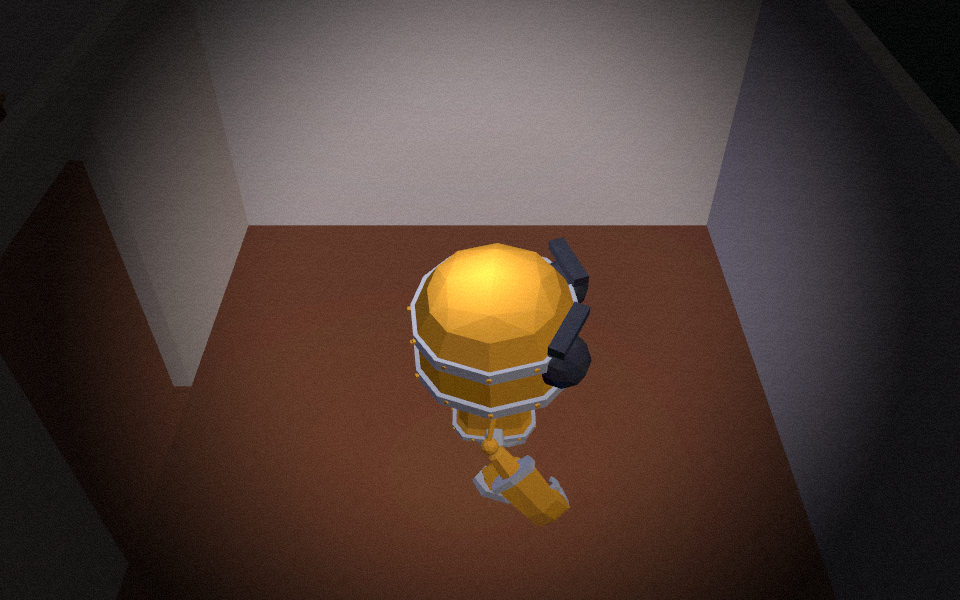
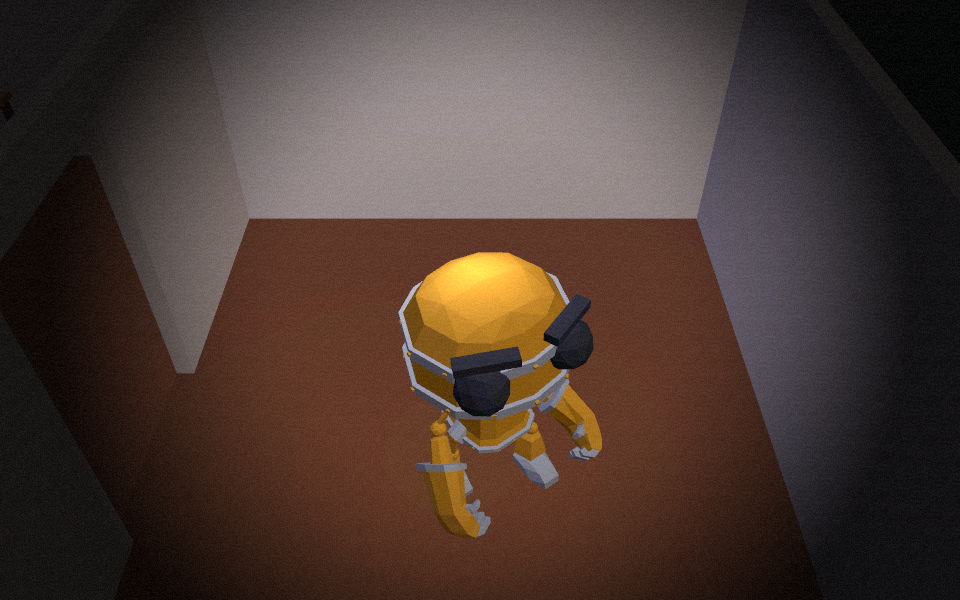
feat(audio): main.js에 실제 BGM/발소리 연결 + 램프 클릭 sfx + audio-check.mjs 강화
main.js: playBGM 대상 test.mp3 -> bgm-main.mp3, initFootsteps()를 오디오
게이트 콜백 안(BGM 재생 직후)에서 호출.

livingRoom.js: 램프 토글이 실제로 성립할 때만 sfx-click 재생하도록 연결.

footsteps.js: initFootsteps()가 이제 pool을 반환(playBGM이 sound를
반환하는 것과 같은 패턴) - 검증 스크립트가 재생 상태를 읽을 수 있게.
main.js가 window.__debug.footsteps로 노출.

audio-check.mjs: 기존엔 상태 출력만 하고 pass/fail 판정이 없었음 - OK/FAIL
어서션과 exit(1) 추가. 발소리 검사 3단계 신규: 정지 시 재생 안 됨 / W 이동
중 1.5초 내 최소 1회 재생 / 키를 떼면 다시 멈춤. 전부 통과.

test.mp3(4.1MB, 커밋된 적 없는 로컬 테스트 파일) 삭제.

회귀 확인: m4-rooms.mjs 13/13, character-check.mjs 4항목 전부 유지.

STATE.md/handoff-2026-08-15.md: M3(b)/M6 상태 갱신, 죽은 브랜치
(lane-c-look/lane-e-assets-audio) origin 삭제 + 로컬 추적 참조 prune 반영.

diff --git a/game/src/world/rooms/livingRoom.js b/game/src/world/rooms/livingRoom.js
@@ -2,6 +2,7 @@ import * as THREE from 'three';
 import { makeMesh } from '../../render/meshFactory.js';
 import { toonMat } from '../../render/materials.js';
 import { onFrame } from '../../core/loop.js';
+import { createSfxPool } from '../../audio/audio.js';
 
 /* ------------------------------------------------------------------ *
  *  거실 소품 전용 파일 (M4). 바닥·벽·문은 house.js(layout.js 데이터
@@ -121,6 +122,7 @@ export function createLivingRoom(scene, camera, renderer) {
   // 그걸 import하지 않는다 — world 모듈이 camera 모듈을 몰라야 하므로.
   const raycaster = new THREE.Raycaster();
   const pointer = new THREE.Vector2();
+  const clickSfx = createSfxPool('./assets/audio/sfx-click.mp3', 2, { volume: 0.8 });
   let lampOn = false;
   let punch = 0;
   let downX = 0;
@@ -153,6 +155,7 @@ export function createLivingRoom(scene, camera, renderer) {
       shadeMat.emissive.set(lampOn ? 0xffb35a : 0x000000);
       shadeMat.emissiveIntensity = lampOn ? 0.9 : 0;
       punch = 1;
+      clickSfx.play();
     }
   }
   renderer.domElement.addEventListener('pointerdown', onPointerDown);

diff --git a/game/main.js b/game/main.js
@@ -16,6 +16,7 @@ import { restyle, Restyle, logMaterials } from './src/assets/restyle.js';
 import { fitHeight } from './src/assets/normalize.js';
 import { initAudioGate } from './src/audio/gate.js';
 import { playBGM } from './src/audio/audio.js';
+import { initFootsteps } from './src/audio/footsteps.js';
 
 /* ------------------------------------------------------------------ *
  *  부트스트랩 전용 파일 (로드맵 §3 "main.js는 통합자 전용").
@@ -64,8 +65,9 @@ window.__debug = { player, camera, getColliders };
 // #loading 오버레이를 "시작하기" 버튼으로 바꾼다(index.html은 안 건드림, gate.js가 DOM 주입).
 // 클릭 시에만 AudioContext.resume() + BGM 재생이 허용된다.
 initAudioGate(loadingEl, () => {
-  const bgm = playBGM('./assets/audio/test.mp3', { volume: 0.4, loop: true });
+  const bgm = playBGM('./assets/audio/bgm-main.mp3', { volume: 0.4, loop: true });
   window.__debug.bgm = bgm;
+  window.__debug.footsteps = initFootsteps('./assets/audio/sfx-footstep.mp3', 0.38);
 });
 hintEl.classList.remove('hidden');
 setTimeout(() => hintEl.classList.add('hidden'), 6000);

diff --git a/game/src/audio/footsteps.js b/game/src/audio/footsteps.js
@@ -5,8 +5,9 @@ import { createSfxPool } from './audio.js';
 /**
  * 캐릭터 WASD 이동 축을 감지하여 발소리(SFX Pool)를 보행 주기(interval)에 맞춰 자동 재생하는 모듈
  * ⚠ main.js 등 외부 통합 시점에서 initFootsteps()를 호출하여 바인딩함
- * @param {string} url 
- * @param {number} interval 
+ * @param {string} url
+ * @param {number} interval
+ * @returns {{play: Function, pool: THREE.Audio[]}} 검증 스크립트가 재생 상태를 읽을 수 있도록 pool 반환 (playBGM이 sound를 반환하는 것과 같은 패턴)
  */
 export function initFootsteps(url = './assets/audio/sfx-footstep.mp3', interval = 0.38) {
   const pool = createSfxPool(url, 4, { volume: 0.5 });
@@ -25,4 +26,6 @@ export function initFootsteps(url = './assets/audio/sfx-footstep.mp3', interval 
       timer = 0;
     }
   }, Phase.SIM);
+
+  return pool;
 }

diff --git a/handoff-2026-08-15.md b/handoff-2026-08-15.md
@@ -26,18 +26,17 @@
 - **로컬 작업 경로**: `C:\Users\hcyang\claude\claude_project\260814_mini_games`
 - **기본 브랜치**: `main`
 - **게임 실행**: `game/index.html`을 정적 서버로 서빙(VS Code Live Server 등). ES 모듈이라 `file://` 직접 열기는 CORS로 안 됨.
-- **개발 도구**: `tools/render-check/`(헤드리스 Chrome 렌더 검증 — `shot.mjs`, `move-check.mjs`, `audio-check.mjs`, `zoom-check.mjs`, `m4-rooms.mjs`, `collider-count.mjs`), `tools/check-imports.mjs`(import 경로·대소문자 검증), `tools/layout-check.mjs`(레이아웃 데이터 순수 node 정적 검증 7항목)
+- **개발 도구**: `tools/render-check/`(헤드리스 Chrome 렌더 검증 — `shot.mjs`, `move-check.mjs`, `audio-check.mjs`, `zoom-check.mjs`, `m4-rooms.mjs`, `collider-count.mjs`, `room-tint-check.mjs`, `character-check.mjs`), `tools/check-imports.mjs`(import 경로·대소문자 검증), `tools/layout-check.mjs`(레이아웃 데이터 순수 node 정적 검증 7항목)
 
 ### 활성 브랜치
 
 | 브랜치 | 상태 | 내용 |
 |---|---|---|
-| `main` | 진행 중 | M4 집 구조(거실+방3 뼈대) 완료 후 merge. 다음 작업 대기 |
-| `gemini/lane-character` | **대기 중, 미착수** | 걷는 캐릭터(리깅+애니메이션) — 지시서: `docs/handoff/gemini-lane-character.md` |
-| `gemini/lane-audio-content` | **대기 중, 미착수** | BGM/SFX 실제 에셋 — 지시서: `docs/handoff/gemini-lane-audio-content.md` |
-| `gemini/lane-rooms` | **대기 중, 미착수** | 침실A·작업실·침실B 소품 드레싱 — 지시서: `docs/handoff/gemini-lane-rooms.md` (M4 완료 직후 신설) |
-| `gemini/lane-c-look` | merge 완료(죽은 브랜치) | 후처리/안개/바깥지형. 삭제해도 무방 |
-| `gemini/lane-e-assets-audio` | merge 완료(죽은 브랜치) | 에셋 파이프라인/오디오 시스템. 삭제해도 무방 |
+| `main` | 진행 중 | M4 집 구조 + 걷는 캐릭터 + BGM/SFX 전부 merge 완료. 다음은 `gemini/lane-rooms` |
+| `gemini/lane-character` | **merge 완료** (`6e68173`) | 걷는 캐릭터(리깅 로봇+idle/walk). 삭제 대상(아직 안 지움) |
+| `gemini/lane-audio-content` | **merge 완료** (`4015c9e`) | BGM/SFX 실제 에셋 + `footsteps.js`. 삭제 대상(아직 안 지움) |
+| `gemini/lane-rooms` | **대기, 새 커밋 있음** (`e79a423`) | 침실A·작업실·침실B 소품 드레싱 — **M5 배포의 마지막 게이트**, 다음 리뷰 대상 |
+| `gemini/lane-c-look`, `gemini/lane-e-assets-audio` | **origin에서 삭제 완료** | 후처리/안개/바깥지형, 에셋·오디오 파이프라인. 둘 다 merge 완료 확인 후 삭제, 로컬 추적 참조도 prune |
 
 ---
 
@@ -64,21 +63,19 @@
 | M0 — 기반 공사 | ✅ 완료 | git init, vendoring, 모듈 분리, 외곽선 제거+flat shading |
 | M1 — 걸어다니는 방 1개 | ✅ 완료 | WASD 이동, 원-AABB 충돌(오차 0.000m 검증), 3인칭 추적 카메라, 휠 줌 |
 | M2 — 룩 확정 | ✅ 완료 | 후처리(그레인+색보정+비네트)+안개+바깥지형. 색감은 튜닝 여지 있음(§5) |
-| M3 — 캐릭터 & 텍스처 실습 | 🟡 절반 완료 | (a) 텍스처 실습: 에셋 파이프라인 완성+검증(`cubone.glb`를 KEEP 모드로 로드). (b) 걷는 캐릭터: **미착수**, `gemini/lane-character`에 지시서만 있음 |
+| M3 — 캐릭터 & 텍스처 실습 | ✅ **완료** | (a) 텍스처 실습: 에셋 파이프라인 완성+검증(`cubone.glb`를 KEEP 모드로 로드). (b) 걷는 캐릭터: RobotExpressive(CC0) 리깅+idle/walk 애니메이션, `character-check.mjs` 통과 |
 | M4 — 집 구조 (방 3개+거실) | ✅ **완료** | `docs/spec/M4-layout.md` 스펙대로 `layout.js`+`house.js` 구현. `layout-check.mjs` 7/7, `m4-rooms.mjs`(실제 키입력 주행) 13/13 통과. 거실은 소품까지 완성, **침실A·작업실·침실B는 뼈대(바닥·벽·문)만** — 소품은 M4c |
-| M4c — 방 3개 드레싱 | 🟡 대기 | `gemini/lane-rooms`에 지시서만 있음 |
-| M5 — 배포 | 🔴 미착수 | M4c 완료가 게이트(사용자 지정 — "집 구조 완성 시 공개") |
-| M6 — 증식(소품/오디오/상호작용) | 🟡 부분 진행 | BGM/SFX 재생 시스템 완성+검증. 실제 오디오 에셋은 `gemini/lane-audio-content`에 지시서만. 벽 페이드는 이제 착수 가능(문 있는 벽 구조 존재) |
+| M4c — 방 3개 드레싱 | 🟡 대기 | `gemini/lane-rooms`에 새 커밋(`e79a423`) 도착, 리뷰 대기 — **M5의 마지막 게이트** |
+| M5 — 배포 | 🔴 미착수 | M4c 완료가 게이트(사용자 지정 — "집 구조 완성 시 공개"). 그 외엔 배포 판단 가능한 상태 |
+| M6 — 증식(소품/오디오/상호작용) | 🟡 부분 진행 | BGM/SFX **실제 에셋까지 merge 완료**(`bgm-main.mp3` 1.17MB, 발소리·램프클릭 SFX 연결). 벽 페이드·소품 추가는 아직 |
 | M7 — 폴리시 & 재배포 | 🔴 미착수 | |
 
 ### 지금 당장 남은 작업 (우선순위 순)
 
-1. **M4c — 방 3개 드레싱** — `gemini/lane-rooms` 브랜치 대기 중, 지금 바로 착수 가능
-2. **걷는 캐릭터** — `gemini/lane-character` 브랜치 대기 중, 지금 바로 착수 가능
-3. **BGM/SFX 실제 에셋** — `gemini/lane-audio-content` 브랜치 대기 중, 지금 바로 착수 가능
-4. **벽 페이드** — `TAG.FADEABLE`은 지금 카메라 거리 당김에만 쓰이고 실제 재질 투명도 페이드는 없음. 문 있는 벽 구조가 이제 있으니 Claude Code CLI가 `main`에서 착수 가능
-5. **룩 튜닝** — 색보정이 sample1보다 마젠타 쪽으로 치우침, 바깥 지면 색 조정 여지. 버그 아님, 가벼운 작업이라 아무 때나 처리 가능
-6. **M5 배포**(itch.io) — 1번 완료 후
+1. **M4c — 방 3개 드레싱** — `gemini/lane-rooms`에 새 커밋(`e79a423`) 도착, 리뷰·merge가 **M5 배포의 마지막 게이트**
+2. **벽 페이드** — `TAG.FADEABLE`은 지금 카메라 거리 당김에만 쓰이고 실제 재질 투명도 페이드는 없음. 문 있는 벽 구조가 이제 있으니 Claude Code CLI가 `main`에서 착수 가능
+3. **카메라 프레이밍 재확인** — 로봇 캐릭터가 캡슐보다 크고 둥글어서 화면을 많이 채움(스크린샷 육안 확인). 수치 조정 필요할 수 있음
+4. **M5 배포**(itch.io) — 1번 완료 후
 
 ### 병렬화 가능 여부 분석
 
@@ -87,8 +84,8 @@ M4 구조(임계경로)가 끝나서 **지금은 병렬 가능한 작업이 3개
 | 항목 | 병렬 가능? | 이유 |
 |---|---|---|
 | **1. M4c 방 3개 드레싱** | ✅ 완전 독립 | 방마다 `world/rooms/<id>.js` 배타 소유, `layout.js`/`house.js`/`main.js` 안 건드림. **분기 완료** (`gemini/lane-rooms`) |
-| **2. 걷는 캐릭터** | ✅ 완전 독립 | `player/character.js` 하나만 건드림, M4와 파일이 전혀 안 겹침. **분기 완료** (`gemini/lane-character`) |
-| **3. BGM/SFX 에셋** | ✅ 완전 독립 | `audio/` + 소싱 작업, 다른 어떤 파일과도 안 겹침. **분기 완료** (`gemini/lane-audio-content`) |
+| **2. 걷는 캐릭터** | ✅ 완전 독립 | `player/character.js` 하나만 건드림, M4와 파일이 전혀 안 겹침. **merge 완료** (`gemini/lane-character` → `6e68173`) |
+| **3. BGM/SFX 에셋** | ✅ 완전 독립 | `audio/` + 소싱 작업, 다른 어떤 파일과도 안 겹침. **merge 완료** (`gemini/lane-audio-content` → `4015c9e`) |
 | **4. 벽 페이드** | ✅ 이제 가능 | `camera/`만 건드림. 문 있는 벽 구조가 이제 존재해서 실제 테스트도 가능해짐 — Claude Code CLI가 `main`에서 담당 |
 | **5. 룩 튜닝** | ✅ 독립적, 매우 가벼움 | `GradeGrainVignetteShader.js` 숫자 몇 개 + `exterior.js` 색 하나. 레인 만들 필요 없이 아무 때나 5분 작업 |
 | **6. 배포** | ❌ 완전 순차 | 1번(방 드레싱) 끝나야 시작 가능 — 사용자가 "집 구조 완성 시 공개"로 게이트 |
@@ -116,8 +113,8 @@ M4 구조(임계경로)가 끝나서 **지금은 병렬 가능한 작업이 3개
 
 - ~~색보정 톤~~: 해결됨(`dev-log.md` (19)). (18)의 "방끼리 채널차 ≥12" 수용기준은 조명 색만 다르게 칠해도 통과하는 잘못된 설계였고, 실제로 침실A가 오렌지 포인트라이트(거실의 13배 강도)에 씻겨 클리핑됐다. `lighting.js`의 방별 색조를 걷어내 전 방 동일한 따뜻한 백색·낮은 강도(1.2~1.5)로 통일, `GradeGrainVignetteShader.js`의 `uGain`을 (0.92,1.0,1.25)로 재조정. 수용기준도 "방끼리 다른가"가 아니라 "재질 원본색이 화면에 살아남는가"(R/G≤1.8, B/G≥0.55, 클리핑<0.5%, 밝기≥거실의 60%)로 교체 — `tools/render-check/room-tint-check.mjs`
 - **바깥 지면 색**: `game/src/world/exterior.js`의 `0x3d5240`(이미 한 번 밝힌 값). 조명 아래서 여전히 어둡게 느껴지면 더 밝힐 것
-- **`game/assets/audio/test.mp3`(4.1MB)**: 테스트용, 커밋 안 함. 예산(BGM ≤1.5MB) 초과 사례이니 최종 BGM은 반드시 압축/트림
-- **캐릭터**: 지금 `player/character.js`는 캡슐 + 방향표시 원뿔(노즈콘)뿐
+- ~~`test.mp3`(4.1MB)~~: 삭제됨(`dev-log.md` (21)). `bgm-main.mp3`(1.17MB, CC0)로 교체, 예산(≤1.5MB) 이내
+- ~~캐릭터~~: 해결됨(`dev-log.md` (20)). RobotExpressive(CC0, 리깅+애니메이션 14개) — idle/walk 전환 `character-check.mjs`로 검증. 다만 캡슐보다 시각적으로 커서 카메라 프레이밍 재확인 필요(위 열린 작업 참고)
 - **방 크기 체감**: 6.0/5×4/4×5/4×4 m는 스펙의 계산값. `m4-rooms.mjs`로 "도달 가능·문 안 낌"은 확인됐지만 **미적으로 적당한지는 아직 사람이 안 봤다** — 드레싱(M4c) 후 재평가
 - **안개 far·카메라 기본 거리**: 집이 14m 길이로 늘어난 뒤 재확인 안 함(`docs/spec/M4-layout.md` §5.4)
 - **콜라이더 실측 24개**: 스펙 추정(~43)보다 적음 — 상인방 9개가 설계대로 non-solid라 그런 것뿐, 문제 아님

diff --git a/docs/STATE.md b/docs/STATE.md
@@ -2,7 +2,7 @@
 
 > 60줄 유지. 서술 금지, 상태만. 세션 끝에 **Claude Code CLI가 갱신**한다.
 > 배경/경위가 필요하면 `handoff-2026-08-15.md`, 전체 로그는 `dev-log.md`.
-> 최종 갱신: 2026-08-16 (Claude Code CLI)
+> 최종 갱신: 2026-08-16 (Claude Code CLI) — 걷는 캐릭터+소리+방4개 갖춰짐, M5는 M4c 드레싱 게이트만 남음
 
 ## 3층 운영규칙
 
@@ -28,27 +28,27 @@
 | M2 룩 (후처리·안개·바깥지형) | ✅ |
 | M3 (a)에셋 파이프라인 ✅ / (b)걷는 캐릭터 | ✅ `gemini/lane-character` merge 완료(리깅 로봇+idle/walk, `character-check.mjs` 통과) |
 | **M4 집 4칸 구조** (`layout.js`+`house.js`, 거실 소품) | ✅ 완료 — `layout-check.mjs` 7/7, `m4-rooms.mjs` 13/13 통과 |
-| M4c 방 3개 드레싱 | 🟡 `gemini/lane-rooms`에 새 커밋 있음(`e79a423`) — 아직 리뷰 전 |
-| M5 배포 (itch.io) | 🔴 M4c 완료 후 판단 |
-| M6 증식 (오디오 시스템 ✅ / 실제 에셋·소품) | 🟡 `gemini/lane-audio-content` 대기 |
+| M4c 방 3개 드레싱 | 🟡 `gemini/lane-rooms`에 새 커밋 있음(`e79a423`) — 아직 리뷰 전, **M5의 마지막 게이트** |
+| M5 배포 (itch.io) | 🔴 M4c 완료 후 판단 — 그 외엔 배포 판단 가능한 상태(구조/이동/캐릭터/오디오 전부 ✅) |
+| M6 증식 (오디오 시스템 ✅ 실제 에셋까지 완료 / 소품) | 🟡 `gemini/lane-audio-content` merge 완료, 소품 추가는 대기 |
 | M7 폴리시 | 🔴 |
 
 ## 브랜치
 
 | 브랜치 | 담당 | 상태 |
 |---|---|---|
-| `main` | 2층 CLI | M4 구조 완료 + 색보정/조명 재작업 완료 + 캐릭터 merge 완료 |
-| `gemini/lane-character` | 3층 | merge 완료(`6e68173`) — **삭제 대상** |
-| `gemini/lane-audio-content` | 3층 | 대기, 미착수 — 지시서 있음 |
+| `main` | 2층 CLI | M4 구조 + 색보정/조명 재작업 + 캐릭터 merge + 오디오 merge 전부 완료 |
+| `gemini/lane-character` | 3층 | merge 완료(`6e68173`) — 삭제 대상(아직 안 지움) |
+| `gemini/lane-audio-content` | 3층 | merge 완료(`4015c9e`) — 삭제 대상(아직 안 지움) |
 | `gemini/lane-rooms` | 3층 | 새 커밋 있음(`e79a423`) — 다음 리뷰 대상 |
-| `gemini/lane-c-look`, `gemini/lane-e-assets-audio` | — | merge 완료, **삭제 대상** |
+| `gemini/lane-c-look`, `gemini/lane-e-assets-audio` | — | **origin에서 삭제 완료**, 로컬 추적 참조도 prune 완료 |
 
 ## 지금 열려 있는 작업 (우선순위)
 
-1. **`gemini/lane-rooms` 리뷰·merge** — 2층, 새 커밋(`e79a423`) 도착함, 다음 세션 최우선
-2. **BGM·SFX 에셋** — 3층, `gemini/lane-audio-content` 지금 바로 착수 가능
-3. 벽 페이드 (`TAG.FADEABLE` 실제 투명도) — 2층, 문 있는 벽 구조가 이제 있으니 착수 가능
-4. 카메라 프레이밍 재확인 — 로봇 캐릭터가 캡슐보다 크고 둥글어서 화면을 많이 채움(스크린샷 육안 확인, `dev-log.md` (20) 참고). 수치 조정 필요할 수 있음
+1. **`gemini/lane-rooms` 리뷰·merge** — 2층, 새 커밋(`e79a423`) 도착함, **M5 배포의 마지막 게이트**
+2. 벽 페이드 (`TAG.FADEABLE` 실제 투명도) — 2층, 문 있는 벽 구조가 이제 있으니 착수 가능
+3. 카메라 프레이밍 재확인 — 로봇 캐릭터가 캡슐보다 크고 둥글어서 화면을 많이 채움(스크린샷 육안 확인, `dev-log.md` (20) 참고). 수치 조정 필요할 수 있음
+4. 죽은 브랜치(`gemini/lane-character`, `gemini/lane-audio-content`) origin 삭제 — merge 완료됐으니 아무 때나
 5. M5 배포 판단 — 방 3개 드레싱 완료 후
 
 ## 열린 결정 / 미확정

diff --git a/dev-log.md b/dev-log.md
@@ -4,6 +4,30 @@
 
 ---
 
+## 2026-08-16 (21) — gemini/lane-audio-content 리뷰·merge + main.js 연결, "걷는 캐릭터+소리+방4개" 완성
+
+**리뷰**: `git show`/`git diff main...origin/gemini/lane-audio-content`로만 리뷰(체크아웃 없음). 커밋 1개(`22fa804`). `bgm-main.mp3` 1.17MB(예산 1.5MB 이내, 기존 `test.mp3`의 28%), `sfx-footstep.mp3` 1.67KB, `sfx-click.mp3` 1.27KB. `footsteps.js`는 `core/loop.js`+`player/input.js` 읽기 전용만 쓰는 자체완결 모듈, off-limits 무침범 확인.
+
+**충돌 2건 (Job 2와 같은 패턴)**: `ATTRIBUTION.md`는 add/add — 헤더 하나로 합쳐 캐릭터+오디오 항목 모두 나열. `dev-log.md`는 Job 2 때와 동일하게 같은 지점에서 갈라진 두 "(15)/(16)" 계열 항목 — 번호 중복 감수하고 둘 다 살림(`(원문, Lane Audio Content 작성)` 표기).
+
+**`main.js` 연결**: `playBGM` 대상 `test.mp3`→`bgm-main.mp3`. `initFootsteps()`를 오디오 게이트 콜백 안(BGM 재생 직후)에서 호출 — 게이트 이전엔 `AudioContext`가 suspended라 발소리도 같은 제약을 받아야 함.
+
+**램프 클릭 sfx 연결**: `world/rooms/livingRoom.js`(M4부터 2층 소유)의 `onPointerUp`에서 램프 토글이 실제로 성립할 때(`hits.length > 0` 안)만 `clickSfx.play()`. `createSfxPool` 풀을 컴포넌트 생성 시점에 만들어두고 로드는 비동기로 흘러가게 함 — 기존 발소리/BGM 패턴과 동일.
+
+**`test.mp3`(4.1MB) 삭제**: 애초에 git에 커밋된 적 없는 로컬 전용 테스트 파일이라(`.gitignore`에도 없음) 단순 파일 삭제만으로 정리 끝.
+
+**`audio-check.mjs` 재작성**: 기존엔 상태를 출력만 하고 pass/fail 판정이 없었음 — OK/FAIL 어서션과 `exit(1)`을 추가하고, 발소리 검사 3단계를 새로 넣음: (a) 정지 상태에서 발소리 없음 (b) W 이동 중 1.5초 내 발소리 최소 1회 (c) 키를 떼면 다시 멈춤. 이걸 위해 `initFootsteps()`가 이제 `pool`을 반환하도록 살짝 확장(`playBGM`이 `sound`를 반환하는 것과 같은 패턴)하고 `main.js`가 `window.__debug.footsteps`로 노출. 전부 통과.
+
+**회귀 확인**: `m4-rooms.mjs` 13/13, `character-check.mjs` 4항목 전부 유지(오디오 배선은 이동/충돌/애니메이션과 무관함을 재확인).
+
+**죽은 브랜치 정리**: `gemini/lane-c-look`, `gemini/lane-e-assets-audio`는 `git branch --merged main`으로 완전 병합 확인 후 `git push origin --delete`, `git fetch --prune`로 로컬 추적 참조도 정리.
+
+**커밋**: `4015c9e`(merge) → 이 항목이 이어지는 코드 연결/검증 커밋.
+
+**M5 판단**: "걷는 캐릭터 + 소리 + 방 4개"가 갖춰졌다. 방 3개(bedA/study/bedB)는 아직 뼈대뿐이라 `gemini/lane-rooms`(새 커밋 `e79a423`, 리뷰 대기) 드레싱이 M5 배포의 마지막 게이트로 남아있음 — 구조·이동·오디오는 배포 판단을 막는 요소가 아님.
+
+---
+
 ## 2026-08-16 (20) — gemini/lane-character 리뷰·merge + 검증 스크립트 신규
 
 **리뷰 방식**: 체크아웃 없이 `git show`/`git diff main...origin/gemini/lane-character`로만 리뷰(공유 폴더 체크아웃 사고 방지 — `dev-log.md` (16)(17) 참고). 커밋 1개(`18c2246`), 변경 6개 파일.
